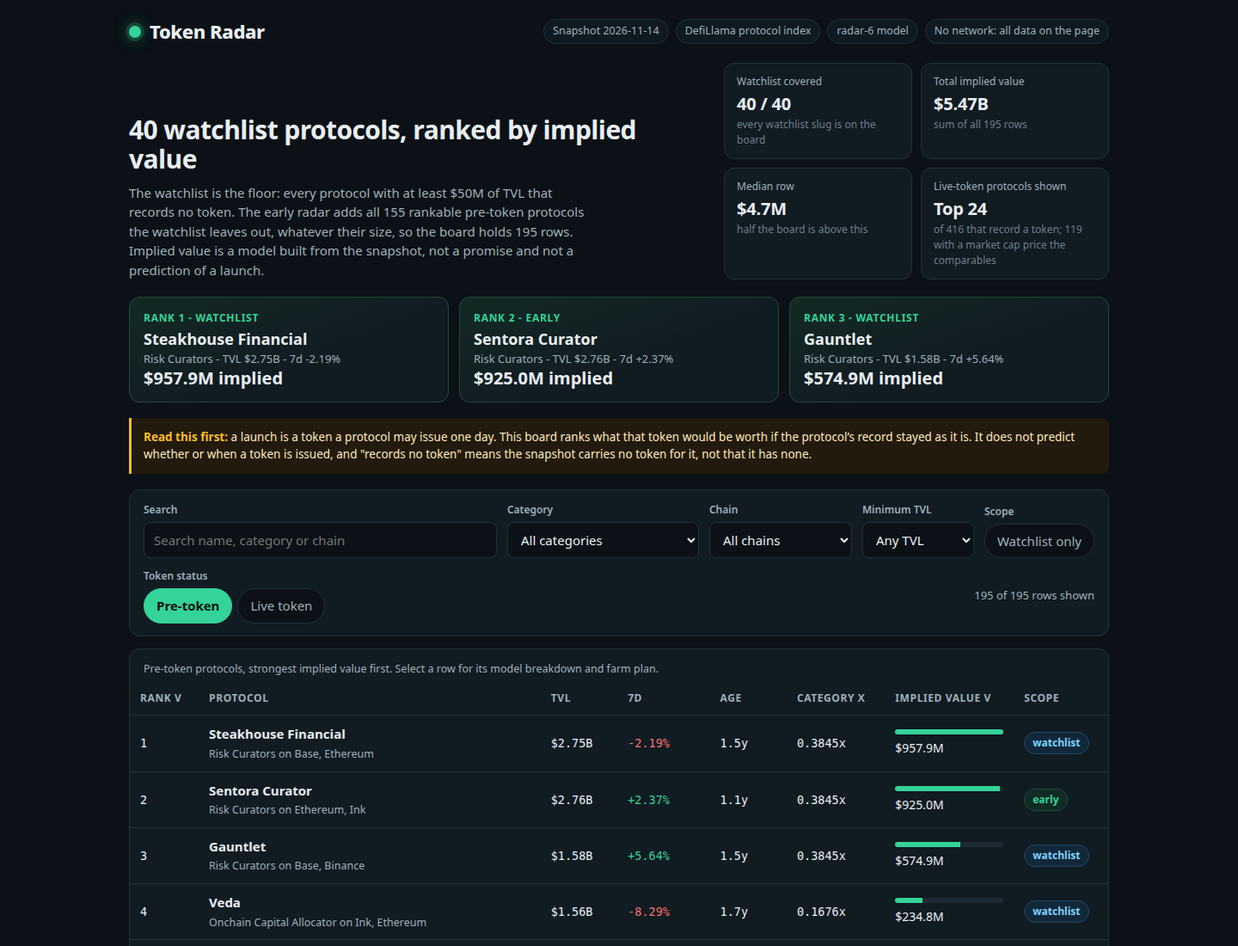
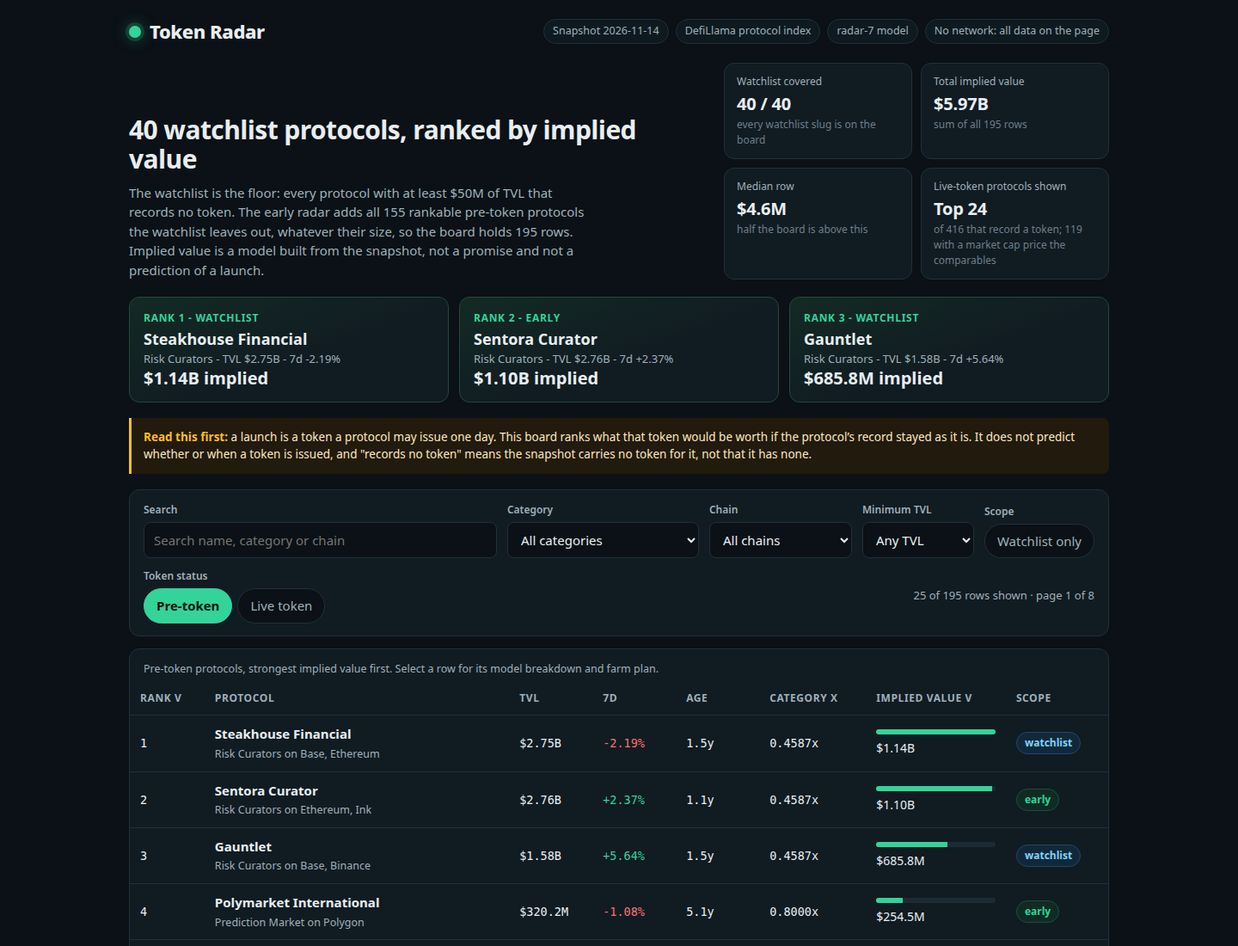
Token Radar radar-7: log-space comparable shrinkage, board pagination, live 7d sort
The arithmetic shrink clamped each category's raw median to [0.05, 0.80]
before shrinking, which erased every difference between rich single-peer
categories: Chain (3.03x), Collateral Management (12.16x), Decentralized
AI (2.06x), NFT Marketplace (2.00x), Options (1.51x), Prediction Market
(400.20x) and Risk Curators (2.97x) all priced at one identical 0.3845x,
40 board rows on a single number. It erased the cheap end too: Staking
Pool (SSV at 0.00x on $10.2B TVL) priced at 0.1676x. Ratios multiply,
so the shrinkage now averages logarithms and the raw median is never
clamped first: those categories price at 0.4607x, 0.6523x, 0.4185x,
0.4155x, 0.3875x, the 0.80 cap and 0.4587x, each from its own peer,
still pulled most of the way to the market by the 3-peer weight and
still capped; Staking Pool prices at the 0.05 floor. A single peer still
never sets its own price. Total implied $5.97B, median $4.6M.

The board is paged at 25 rows (hash-held page, reset on any filter or
sort change) instead of one 195-row wall; the live table's 7d column
sorts like the board's; the detail view's why-sentence names an
unreported age instead of skipping it. Screenshots retaken from the
new build.

diff --git a/dashboard/app.js b/dashboard/app.js
@@ -1,4 +1,4 @@
-// Token Radar's dashboard (radar-6). It reads window.RADAR (written beside
+// Token Radar's dashboard (radar-7). It reads window.RADAR (written beside
 // dashboard/ by main.ts from the same board.json) and renders the ranked
 // board, the filters, a per-protocol detail view with the model's own
 // breakdown and the protocol's farm plan, and the live-token set kept apart.
@@ -9,7 +9,8 @@
   var DATA = window.RADAR;
   if (!DATA) return;
   var app = document.getElementById('board');
-  var state = { q: '', category: 'all', chain: 'all', watch: false, minTvl: 0, tab: 'pre-token', sort: 'implied', dir: -1, selected: null, liveSort: 'mcap', liveDir: -1 };
+  var state = { q: '', category: 'all', chain: 'all', watch: false, minTvl: 0, tab: 'pre-token', sort: 'implied', dir: -1, selected: null, liveSort: 'mcap', liveDir: -1, page: 1 };
+  var PAGE_SIZE = 25;
 
   var usd = new Intl.NumberFormat('en-US', { style: 'currency', currency: 'USD', maximumFractionDigits: 0 });
   function fmtUsd(n) {
@@ -60,6 +61,7 @@
     else if (row.age_days !== null && row.age_days !== undefined && row.age_days >= 365) parts.push('over a year running with no token');
     else if (row.age_days !== null && row.age_days !== undefined && row.age_days >= 180) parts.push('half a year running with no token');
     else if (row.age_days !== null && row.age_days !== undefined && row.age_days < 180) parts.push('a young protocol, seasoned only briefly');
+    else parts.push('age unreported, so it is scored as a year old');
     if (row.category_multiple >= 0.5) parts.push('a rich category multiple');
     else if (row.category_multiple <= 0.1) parts.push('a cheap category multiple');
     else if (row.category_multiple >= 0.2) parts.push('a mid-range category multiple');
@@ -100,6 +102,7 @@
     if (params.get('watch') === '1') state.watch = true;
     if (params.get('tab')) state.tab = params.get('tab');
     if (params.get('mintvl')) state.minTvl = Number(params.get('mintvl')) || 0;
+    if (params.get('page')) state.page = Math.max(1, Number(params.get('page')) || 1);
   }
   function writeHash() {
     var params = new URLSearchParams();
@@ -108,6 +111,7 @@
     if (state.chain !== 'all') params.set('chain', state.chain);
     if (state.watch) params.set('watch', '1');
     if (state.minTvl) params.set('mintvl', String(state.minTvl));
+    if (state.page > 1) params.set('page', String(state.page));
     if (state.tab !== 'pre-token') params.set('tab', state.tab);
     if (state.selected) params.set('p', state.selected);
     var next = params.toString();
@@ -165,6 +169,7 @@
     return list.sort(function (a, b) {
       var av, bv;
       if (key === 'tvl') { av = a.tvl_usd; bv = b.tvl_usd; }
+      else if (key === 'growth') { av = a.change_7d === null ? 0 : a.change_7d; bv = b.change_7d === null ? 0 : b.change_7d; }
       else if (key === 'multiple') { av = a.multiple === null ? 0 : a.multiple; bv = b.multiple === null ? 0 : b.multiple; }
       else { av = a.mcap_usd === null ? 0 : a.mcap_usd; bv = b.mcap_usd === null ? 0 : b.mcap_usd; }
       if (av < bv) return -state.liveDir;
@@ -225,27 +230,35 @@
     var categories = Array.from(new Set(DATA.rows.concat(DATA.live).map(function (r) { return r.category || 'Other'; }))).sort();
     var chains = Array.from(new Set(DATA.rows.concat(DATA.live).reduce(function (acc, r) { return acc.concat(r.chains || []); }, []))).sort();
     var search = el('input', { type: 'search', id: 'q', placeholder: 'Search name, category or chain', value: state.q, 'aria-label': 'Search the board' });
-    search.addEventListener('input', function () { state.q = search.value; writeHash(); render(); });
+    search.addEventListener('input', function () { state.q = search.value; state.page = 1; writeHash(); render(); });
     var cat = el('select', { id: 'category', 'aria-label': 'Filter by category' },
       el('option', { value: 'all', text: 'All categories' }),
       categories.map(function (c) { return el('option', { value: c, text: c, selected: c === state.category ? 'selected' : null }); })
     );
-    cat.addEventListener('change', function () { state.category = cat.value; writeHash(); render(); });
+    cat.addEventListener('change', function () { state.category = cat.value; state.page = 1; writeHash(); render(); });
     var chain = el('select', { id: 'chain', 'aria-label': 'Filter by chain' },
       el('option', { value: 'all', text: 'All chains' }),
       chains.map(function (c) { return el('option', { value: c, text: c, selected: c === state.chain ? 'selected' : null }); })
     );
-    chain.addEventListener('change', function () { state.chain = chain.value; writeHash(); render(); });
+    chain.addEventListener('change', function () { state.chain = chain.value; state.page = 1; writeHash(); render(); });
     var tvl = el('select', { id: 'mintvl', 'aria-label': 'Minimum TVL' },
       el('option', { value: '0', text: 'Any TVL' }),
       el('option', { value: '50000000', text: 'TVL $50M+', selected: state.minTvl === 50000000 ? 'selected' : null }),
       el('option', { value: '100000000', text: 'TVL $100M+', selected: state.minTvl === 100000000 ? 'selected' : null }),
       el('option', { value: '500000000', text: 'TVL $500M+', selected: state.minTvl === 500000000 ? 'selected' : null })
     );
-    tvl.addEventListener('change', function () { state.minTvl = Number(tvl.value); writeHash(); render(); });
-    var watch = el('button', { type: 'button', class: 'chipbtn', 'aria-pressed': state.watch ? 'true' : 'false', text: 'Watchlist only', onclick: function () { state.watch = !state.watch; writeHash(); render(); } });
-    var pre = el('button', { type: 'button', 'aria-pressed': state.tab === 'pre-token' ? 'true' : 'false', text: 'Pre-token', onclick: function () { state.tab = 'pre-token'; writeHash(); render(); } });
-    var live = el('button', { type: 'button', 'aria-pressed': state.tab === 'live' ? 'true' : 'false', text: 'Live token', onclick: function () { state.tab = 'live'; writeHash(); render(); } });
+    tvl.addEventListener('change', function () { state.minTvl = Number(tvl.value); state.page = 1; writeHash(); render(); });
+    var watch = el('button', { type: 'button', class: 'chipbtn', 'aria-pressed': state.watch ? 'true' : 'false', text: 'Watchlist only', onclick: function () { state.watch = !state.watch; state.page = 1; writeHash(); render(); } });
+    var pre = el('button', { type: 'button', 'aria-pressed': state.tab === 'pre-token' ? 'true' : 'false', text: 'Pre-token', onclick: function () { state.tab = 'pre-token'; state.page = 1; writeHash(); render(); } });
+    var live = el('button', { type: 'button', 'aria-pressed': state.tab === 'live' ? 'true' : 'false', text: 'Live token', onclick: function () { state.tab = 'live'; state.page = 1; writeHash(); render(); } });
+    // The count names the page as well as the filter, so a reader on page 4
+    // of a filtered board knows how much board is left.
+    var filtered = rows().length;
+    var pages = Math.max(1, Math.ceil(filtered / PAGE_SIZE));
+    var page = Math.min(state.page, pages);
+    var countText = state.tab === 'pre-token'
+      ? (pages > 1 ? Math.min(PAGE_SIZE, filtered - (page - 1) * PAGE_SIZE) + ' of ' + filtered + ' rows shown · page ' + page + ' of ' + pages : filtered + ' of ' + DATA.board_size + ' rows shown')
+      : liveRows().length + ' of ' + DATA.live.length + ' live-token protocols shown';
     return el('div', { class: 'controls' },
       el('div', { class: 'field grow' }, el('label', { for: 'q', text: 'Search' }), search),
       el('div', { class: 'field' }, el('label', { for: 'category', text: 'Category' }), cat),
@@ -253,13 +266,13 @@
       el('div', { class: 'field' }, el('label', { for: 'mintvl', text: 'Minimum TVL' }), tvl),
       el('div', { class: 'field' }, el('span', { class: 'sub', text: 'Scope' }), watch),
       el('div', { class: 'field' }, el('span', { class: 'sub', text: 'Token status' }), el('div', { class: 'tabs' }, pre, live)),
-      el('span', { class: 'count', text: state.tab === 'pre-token' ? rows().length + ' of ' + DATA.board_size + ' rows shown' : liveRows().length + ' of ' + DATA.live.length + ' live-token protocols shown' })
+      el('span', { class: 'count', text: countText })
     );
   }
 
   function sortHeader(key, label) {
     return el('th', { scope: 'col' },
-      el('button', { type: 'button', onclick: function () { if (state.sort === key) state.dir = -state.dir; else { state.sort = key; state.dir = -1; } render(); } },
+      el('button', { type: 'button', onclick: function () { if (state.sort === key) state.dir = -state.dir; else { state.sort = key; state.dir = -1; } state.page = 1; render(); } },
         label,
         state.sort === key ? el('span', { 'aria-hidden': 'true', text: state.dir < 0 ? ' v' : ' ^' }) : null
       )
@@ -281,12 +294,19 @@
       return el('div', { class: 'panel' }, el('div', { class: 'empty' },
         el('h2', { text: 'No protocol matches that filter' }),
         el('p', { text: 'Clear the search or pick another category, chain or TVL floor to see the board again.' }),
-        el('button', { class: 'button primary', type: 'button', text: 'Clear filters', onclick: function () { state.q = ''; state.category = 'all'; state.chain = 'all'; state.watch = false; state.minTvl = 0; writeHash(); render(); } })
+        el('button', { class: 'button primary', type: 'button', text: 'Clear filters', onclick: function () { state.q = ''; state.category = 'all'; state.chain = 'all'; state.watch = false; state.minTvl = 0; state.page = 1; writeHash(); render(); } })
       ));
     }
+    // One page of the board at a time: 195 rows in a single table is a wall
+    // to scroll, and a page of 25 reads at a glance. The page lives in the
+    // hash, so a link to page 4 opens on page 4, and a filter that shrinks
+    // the board below the current page pulls it back to the last page.
+    var pages = Math.max(1, Math.ceil(list.length / PAGE_SIZE));
+    if (state.page > pages) state.page = pages;
+    var pageList = list.slice((state.page - 1) * PAGE_SIZE, state.page * PAGE_SIZE);
     var max = DATA.rows[0].implied_value_usd || 1;
     var tbody = el('tbody');
-    list.forEach(function (r) {
+    pageList.forEach(function (r) {
       var growth = r.change_7d === null ? 'n/a' : fmtPct(r.change_7d);
       var growthClass = r.change_7d === null ? '' : r.change_7d >= 0 ? 'pos' : 'neg';
       var tr = el('tr', {
@@ -312,7 +332,7 @@
       );
       tbody.appendChild(tr);
     });
-    return el('div', { class: 'panel' },
+    var panel = el('div', { class: 'panel' },
       el('div', { class: 'table-wrap' },
         el('table', null,
           el('caption', { class: 'sub', text: 'Pre-token protocols, strongest implied value first. Select a row for its model breakdown and farm plan.' }),
@@ -330,6 +350,13 @@
         )
       )
     );
+    if (pages <= 1) return panel;
+    var pager = el('div', { class: 'pager' },
+      el('button', { class: 'button', type: 'button', disabled: state.page <= 1 ? 'disabled' : null, text: '← Previous', onclick: function () { if (state.page > 1) { state.page--; writeHash(); render(); } } }),
+      el('span', { class: 'count', text: 'Page ' + state.page + ' of ' + pages + ' — ' + pageList.length + ' rows' }),
+      el('button', { class: 'button', type: 'button', disabled: state.page >= pages ? 'disabled' : null, text: 'Next →', onclick: function () { if (state.page < pages) { state.page++; writeHash(); render(); } } })
+    );
+    return el('div', null, panel, pager);
   }
 
   function liveTable() {
@@ -338,7 +365,7 @@
       return el('div', { class: 'panel' }, el('div', { class: 'empty' },
         el('h2', { text: 'No live-token protocol matches that filter' }),
         el('p', { text: 'Clear the search or pick another category, chain or TVL floor to see the live set again.' }),
-        el('button', { class: 'button primary', type: 'button', text: 'Clear filters', onclick: function () { state.q = ''; state.category = 'all'; state.chain = 'all'; state.watch = false; state.minTvl = 0; writeHash(); render(); } })
+        el('button', { class: 'button primary', type: 'button', text: 'Clear filters', onclick: function () { state.q = ''; state.category = 'all'; state.chain = 'all'; state.watch = false; state.minTvl = 0; state.page = 1; writeHash(); render(); } })
       ));
     }
     var tbody = el('tbody');
@@ -357,7 +384,7 @@
       el('div', { class: 'table-wrap' },
         el('table', null,
           el('caption', { class: 'sub', text: 'Token live: the ' + DATA.live.length + ' biggest live-token protocols by market cap, of ' + DATA.live_total + ' that record a token. These already trade, so their market cap is a fact, not a model. They are set aside from the pre-token ranking, and the market-cap-to-TVL ratios of the ' + DATA.live_priced + ' with a market cap are the comparables the model prices the board with.' }),
-          el('thead', null, el('tr', null, el('th', { scope: 'col', text: 'Status' }), el('th', { scope: 'col', text: 'Protocol' }), liveSortHeader('tvl', 'TVL'), el('th', { scope: 'col', text: '7d' }), liveSortHeader('mcap', 'Market cap'), liveSortHeader('multiple', 'Mcap / TVL'), el('th', { scope: 'col', text: 'Token' }))),
+          el('thead', null, el('tr', null, el('th', { scope: 'col', text: 'Status' }), el('th', { scope: 'col', text: 'Protocol' }), liveSortHeader('tvl', 'TVL'), liveSortHeader('growth', '7d'), liveSortHeader('mcap', 'Market cap'), liveSortHeader('multiple', 'Mcap / TVL'), el('th', { scope: 'col', text: 'Token' }))),
           tbody
         )
       )
@@ -374,10 +401,10 @@
     var saturnText = saturn ? ' One watchlist protocol is ranked although the wrapper rule would leave it out: Saturn, a Stablecoin Wrapper, sits at rank ' + saturn.rank + ' because the watchlist is the floor and a watchlist slug is always ranked.' : '';
     return el('section', { class: 'panel model' },
       el('h2', { text: 'How implied value is computed' }),
-      el('p', { class: 'sub', text: 'Every row is scored by one function of the snapshot figures. No protocol name is special-cased, and no row is hand-picked. The comparable is the median market-cap-to-TVL ratio of the live-token protocols in the same category, computed from this snapshot at run time, then shrunk toward the whole market median with a weight of ' + m.shrink_peers + ' peers: a category with one live peer never sets its own price, and a category with no live peer uses the market median outright.' }),
-      el('p', { class: 'sub', text: 'The shrinkage is not a guess at a weight: ' + thin + ' of the ' + thinTotal + ' categories priced here have fewer than three live peers, so most multiples would rest on one or two protocols without it. With no shrinkage the Risk Curators rows would all price at the 0.80 cap on a single peer; shrunk, they price at ' + (DATA.multiples['Risk Curators'] === undefined ? 'the market median' : DATA.multiples['Risk Curators'].toFixed(4) + 'x') + '.' }),
+      el('p', { class: 'sub', text: 'Every row is scored by one function of the snapshot figures. No protocol name is special-cased, and no row is hand-picked. The comparable is the median market-cap-to-TVL ratio of the live-token protocols in the same category, computed from this snapshot at run time, then shrunk toward the whole market median in log space with a weight of ' + m.shrink_peers + ' peers: ratios multiply, so the shrinkage averages logarithms, and the raw median is never clamped before shrinking. A category with one live peer never prices at its peer\'s ratio, and a category with no live peer uses the market median outright.' }),
+      el('p', { class: 'sub', text: 'The shrinkage is not a guess at a weight: ' + thin + ' of the ' + thinTotal + ' categories priced here have fewer than three live peers, so most multiples would rest on one or two protocols without it. Shrinking in log space matters because the old arithmetic shrink clamped the raw median first: seven single-peer categories, from Options at 1.51x to Prediction Market at 400.20x, all priced at one identical multiple, and a category whose peers trade at 0.002x was lifted to the market by the floor. Now each prices from its own peer, still pulled most of the way to the market, and still capped. With no shrinkage the Risk Curators rows would all price at the 0.80 cap on a single peer; shrunk, they price at ' + (DATA.multiples['Risk Curators'] === undefined ? 'the market median' : DATA.multiples['Risk Curators'].toFixed(4) + 'x') + '.' }),
       el('div', { class: 'formula' },
-        'multiple = (peers x categoryMedian + ' + m.shrink_peers + ' x marketMedian) / (peers + ' + m.shrink_peers + '), clamped to [' + m.multiple_floor + ', ' + m.multiple_cap + ']'
+        'multiple = exp((peers x ln(categoryMedian) + ' + m.shrink_peers + ' x ln(marketMedian)) / (peers + ' + m.shrink_peers + ')), clamped to [' + m.multiple_floor + ', ' + m.multiple_cap + ']'
       ),
       el('div', { class: 'formula' },
         'implied = round( tvl_usd x multiple x (1 + clamp(change_7d, ' + m.growth_floor + ', ' + m.growth_cap + ') / 100 x ' + m.growth_weight + ') x (' + m.maturity_floor + ' + min(age_days, ' + m.maturity_days + ') / ' + m.maturity_days + ' x ' + m.maturity_range + ') x (1 + ' + m.breadth_step + ' x min(chains - 1, ' + m.breadth_max_chains + ')) x quality )'

diff --git a/lib/model.ts b/lib/model.ts
@@ -1,4 +1,4 @@
-// Token Radar's model (radar-6): one sealed snapshot in, one ranked board out.
+// Token Radar's model (radar-7): one sealed snapshot in, one ranked board out.
 //
 // The board covers every slug in the snapshot's watchlist (the floor, never a
 // ceiling) plus every other rankable pre-token protocol the watchlist leaves
@@ -22,13 +22,19 @@
 // function applied to every row. No protocol name is ever special-cased.
 //
 //   comparable  = median(mcap_usd / tvl_usd) over the live-token protocols
-//                 in the same category, clamped to [0.05, 0.80], then shrunk
-//                 toward the whole market's median with a weight of 3 peers:
-//                 (peers x categoryMedian + 3 x marketMedian) / (peers + 3).
-//                 A category with one live peer never sets its own price: a
-//                 single peer's ratio, however extreme, is pulled most of the
-//                 way to the market. Categories with no live peer use the
-//                 whole market's median outright. Exchange tokens are left
+//                 in the same category, shrunk toward the whole market's
+//                 median in log space with a weight of 3 peers, then clamped
+//                 to [0.05, 0.80]:
+//                 exp((peers x ln(categoryMedian) + 3 x ln(marketMedian))
+//                     / (peers + 3)).
+//                 Ratios multiply, so the shrinkage averages logarithms and
+//                 the raw median is never clamped first: a 400x peer and a
+//                 1.5x peer no longer collapse to one multiple, and a 0.002x
+//                 peer is not lifted to the market by a floor clamp either.
+//                 A category with one live peer still never prices at its
+//                 peer's ratio: the market weight pulls it most of the way
+//                 back, and the cap bounds the rest. Categories with no live
+//                 peer use the whole market's median outright. Exchange tokens are left
 //                 out of the comparable population: an exchange token's
 //                 market cap prices the exchange's business, not the TVL
 //                 the snapshot records for it.
@@ -114,7 +120,7 @@ export const MODEL: ModelConstants = {
 };
 
 /** The model's version label: the dashboard names it. */
-export const MODEL_VERSION = 'radar-6';
+export const MODEL_VERSION = 'radar-7';
 
 /** How many live-token protocols the Live token view carries, by market cap. */
 export const LIVE_ROWS = 24;
@@ -256,16 +262,30 @@ export function isPreToken(p: SnapshotProtocol): boolean {
 
 /**
  * The category comparables: for each category, the median market-cap-to-TVL
- * ratio of the live-token protocols in it, clamped to the model's band, then
- * shrunk toward the whole market's median with a weight of `shrink_peers`
- * peers. A category with one live peer (Risk Curators: Api3 alone, at 2.98x)
- * never sets its own price: its shrunk multiple sits most of the way to the
- * market instead of at the 0.80 cap. Categories with no live peer use the
- * whole market's median outright. Exchange tokens are left out of the
- * population entirely: an exchange token's market cap prices the exchange's
- * business, not the TVL the snapshot records for it (Nexo's ratio is 69x on
- * $10M of TVL, OKX's is 0.07x on $26B), so the comparables are the
- * live-token DeFi protocols with a market cap above zero, the same
+ * ratio of the live-token protocols in it, shrunk toward the whole market's
+ * median in log space with a weight of `shrink_peers` peers, then clamped to
+ * the model's band. Ratios multiply, so the shrinkage averages logarithms:
+ * exp((peers x ln(categoryMedian) + 3 x ln(marketMedian)) / (peers + 3)).
+ * The raw median is never clamped before shrinking. The old arithmetic
+ * shrink clamped it to [0.05, 0.80] first, which erased every difference
+ * between rich single-peer categories: Chain (3.03x), Collateral Management
+ * (12.16x), Decentralized AI (2.06x), NFT Marketplace (2.00x), Options
+ * (1.51x), Prediction Market (400.20x) and Risk Curators (2.97x) all priced
+ * at one identical 0.3845x, 40 board rows on a single number. In log space
+ * they price at 0.4607x, 0.6523x, 0.4185x, 0.4155x, 0.3875x, the 0.80 cap
+ * and 0.4587x: each from its own peer, still pulled most of the way to the
+ * market by the 3-peer weight. The same clamp erased the cheap end too: a
+ * category whose peers trade at 0.002x was lifted to 0.1676x by the floor
+ * before shrinking, so Staking Pool (SSV at 0.00x on $10.2B of TVL) priced
+ * as if it were a mid-market category; in log space it prices at the 0.05
+ * floor. A single peer still never sets its own price: Risk Curators'
+ * 2.97x peer pulls the multiple to 0.4587x, not to 2.97x, and an extreme
+ * peer still lands at the cap, which is the model's bound. Categories with
+ * no live peer use the whole market's median outright. Exchange tokens are
+ * left out of the population entirely: an exchange token's market cap prices
+ * the exchange's business, not the TVL the snapshot records for it (Nexo's
+ * ratio is 69x on $10M of TVL, OKX's is 0.07x on $26B), so the comparables
+ * are the live-token DeFi protocols with a market cap above zero, the same
  * population the dashboard names when it says how many protocols price the
  * comparables. The map is computed from this snapshot alone, at run time,
  * never hard-coded.
@@ -290,8 +310,12 @@ export function categoryMultiples(snapshot: Snapshot, model: ModelConstants): { 
   const market = round4(Math.min(model.multiple_cap, Math.max(model.multiple_floor, marketRaw)));
   const out = new Map<string, { multiple: number; raw: number; peers: number }>();
   for (const [key, list] of byCategory) {
-    const raw = Math.min(model.multiple_cap, Math.max(model.multiple_floor, median(list) ?? marketRaw));
-    const shrunk = (list.length * raw + model.shrink_peers * market) / (list.length + model.shrink_peers);
+    const raw = median(list) ?? marketRaw;
+    // Log space, raw unclamped: the shrinkage averages the logarithms of
+    // the category median and the market median, so a 400x peer and a 1.5x
+    // peer keep their distance instead of collapsing at a clamp, and a
+    // 0.002x peer keeps its cheapness instead of being lifted by a floor.
+    const shrunk = Math.exp((list.length * Math.log(raw) + model.shrink_peers * Math.log(market)) / (list.length + model.shrink_peers));
     // Rounded to four decimals BEFORE use: the dashboard recomputes each row
     // from the multiple board.json carries, so the multiple it uses must be
     // the multiple the board states, not a longer decimal behind it. An

diff --git a/dashboard/app.css b/dashboard/app.css
@@ -73,6 +73,9 @@ td.num{font-family:var(--mono);font-size:13.5px}
 .empty p{color:var(--mut);margin:0 0 16px}
 .button{font:inherit;cursor:pointer;border-radius:8px;padding:10px 16px;border:1px solid var(--line);background:var(--bg);color:var(--ink)}
 .button.primary{background:var(--sig);color:#04120c;border-color:var(--sig);font-weight:700}
+.button:disabled{opacity:.45;cursor:default}
+.pager{display:flex;gap:12px;align-items:center;justify-content:space-between;background:var(--panel);border:1px solid var(--line);border-radius:var(--radius);padding:10px 14px;margin-bottom:18px}
+.pager .count{margin-left:0;text-align:center}
 .model{padding:20px 22px}
 .model h2,.peers h2{margin:0 0 8px;font-size:19px}
 .model p{color:var(--mut);margin:0 0 12px;max-width:78ch}

diff --git a/main.ts b/main.ts
@@ -1,4 +1,4 @@
-// Token Radar (radar-6): the entry program, Node 22, standard library only.
+// Token Radar (radar-7): the entry program, Node 22, standard library only.
 //
 // It reads the sealed snapshot from /input/snapshot.json (or --input
 // <file|dir>), scores every rankable pre-token protocol with the model in

diff --git a/README.md b/README.md
@@ -6,12 +6,12 @@ staked or bridged product of one that trades, ranks them by what their launch
 would be worth, and hands in a web dashboard with the board, a detail view
 for every protocol, filters, and a farm plan for each row.
 
-## The model (radar-6)
+## The model (radar-7)
 
 One function scores every row, from the snapshot's own figures only:
 
 ```
-multiple = (peers x categoryMedian + 3 x marketMedian) / (peers + 3),
+multiple = exp((peers x ln(categoryMedian) + 3 x ln(marketMedian)) / (peers + 3)),
   clamped to [0.05, 0.80]; categoryMedian is the median market-cap-to-TVL
   ratio of the live-token protocols in the same category, marketMedian the
   whole market's median
@@ -22,11 +22,26 @@ implied = round( tvl_usd x multiple
   x quality )
 ```
 
-The comparable is shrunk toward the market median with a weight of 3 peers:
-a category with one live peer never sets its own price. On this snapshot the
+The comparable is shrunk toward the market median in log space with a
+weight of 3 peers: ratios multiply, so the shrinkage averages logarithms and
+the raw median is never clamped before shrinking. The old arithmetic shrink
+clamped the raw median to [0.05, 0.80] first, which erased every difference
+between rich single-peer categories: Chain (3.03x), Collateral Management
+(12.16x), Decentralized AI (2.06x), NFT Marketplace (2.00x), Options
+(1.51x), Prediction Market (400.20x) and Risk Curators (2.97x) all priced at
+one identical 0.3845x, 40 board rows on a single number. In log space they
+price at 0.4607x, 0.6523x, 0.4185x, 0.4155x, 0.3875x, the 0.80 cap and
+0.4587x: each from its own peer, still pulled most of the way to the market
+by the 3-peer weight, and still capped. The same clamp erased the cheap end
+too: a category whose peers trade at 0.002x was lifted to 0.1676x by the
+floor before shrinking, so Staking Pool (SSV at 0.00x on $10.2B of TVL)
+priced as if it were a mid-market category; in log space it prices at the
+0.05 floor. A single peer still never sets its own price: Risk Curators'
+2.97x peer pulls the multiple to 0.4587x, not to 2.97x, and an extreme peer
+still lands at the cap, which is the model's bound. On this snapshot the
 Risk Curators median comes from a single live peer (Api3, at 2.98x mcap/TVL),
 so without shrinkage all 34 Risk Curator rows would price at the 0.80 cap;
-shrunk, they price at 0.3845x. The multiple is rounded to four decimals before
+shrunk in log space, they price at 0.4587x. The multiple is rounded to four decimals before
 it is used, so the dashboard's recompute of a row matches board.json exactly.
 Age is days since first listing, the record of how long a protocol has run
 with no token. `quality` is 0.97 when seven-day growth is unreported and 1.00
